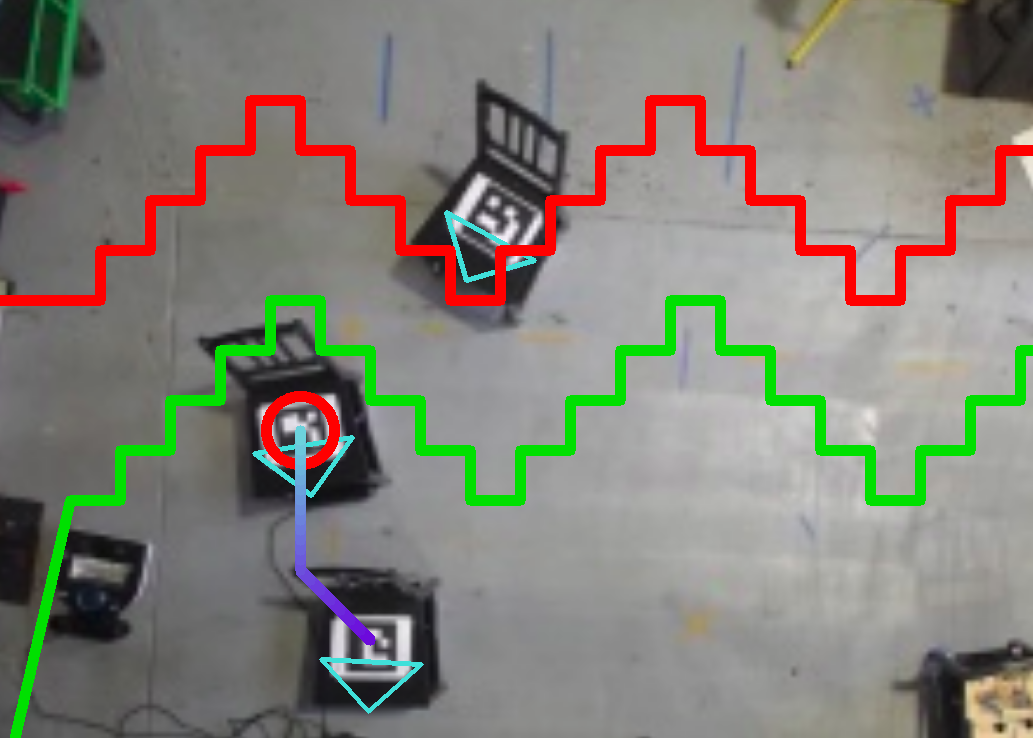
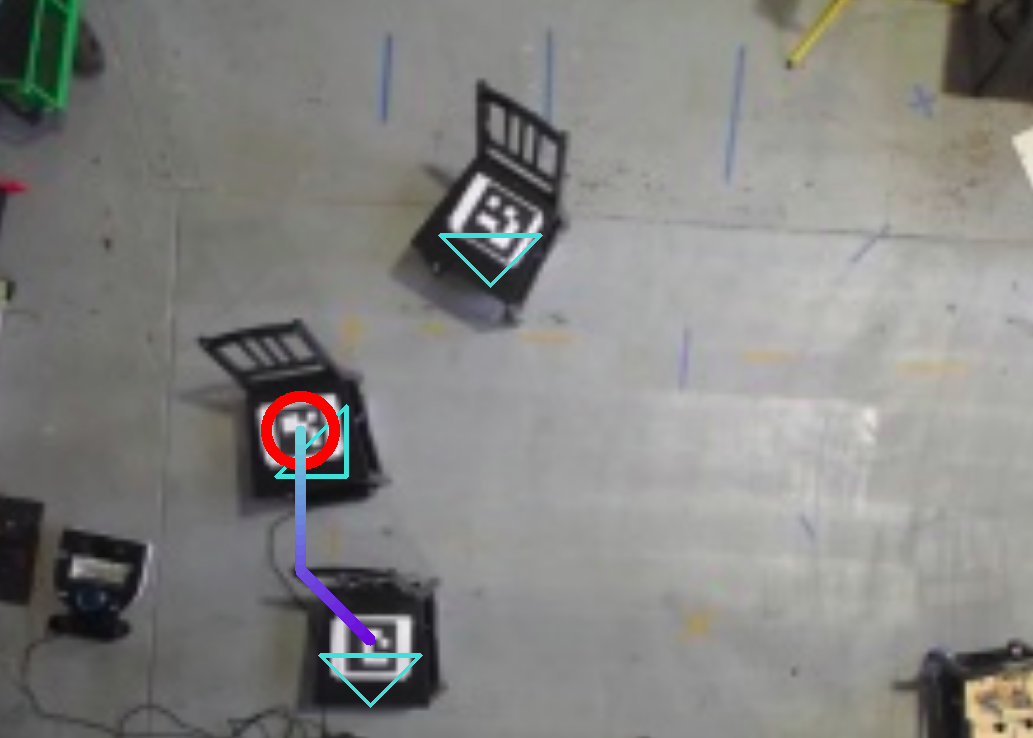
Added Avi's ScaledBots coordinates

diff --git a/path_planner.py b/path_planner.py
@@ -1,0 +1,227 @@
+import cv2
+import numpy as np
+import math 
+
+def _find_chairbots(image):
+    """ returns the chairbot location and orientation in an image """
+    # detectMarkers returns: (corners, ids, rejectedImgPoints)
+    dictionary = cv2.aruco.getPredefinedDictionary( cv2.aruco.DICT_4X4_50 )
+    corners, ids, _ = cv2.aruco.detectMarkers(image, dictionary)
+    found_chairbots = []
+    # Checks all fiducials in dictionary
+    if len(corners) > 0:
+        # fids corners, findex fiducial index
+        for (fids, index) in zip(corners, ids):
+            for corner in fids: # pt => point number
+                try:
+                    fid = int(index[0]) # defined fiducial id number
+                    # exclude fiducial ids outside of expected range
+                    if (fid >= 0 and fid <= 5):  # chairbot max number is 5
+                        # ll contains (x, y) coordinate of the middle of fiducial
+                        midcords = (corner[0] + corner[1] +corner[2] +corner[3]) \
+                            /4 # average sum of 4 corners
+                        # calculate angle from origin to fiducial center
+                        # average of the top two fiducial corners
+                        topcords = (corner[0] + corner[3]) / 2
+                        # average of the bottome two fiducial corners
+                        botcords = (corner[1] + corner[2]) / 2
+                        # Difference between top and bottom
+                        ydeltacords = topcords - botcords
+                        # Tangent of the y and the x
+                        theta = math.atan2(ydeltacords[1], ydeltacords[0])
+                        # Changes theta from radians to positive degrees (0 to 360 rotating counter-clockwise)
+                        degree = theta * (180 / math.pi) + 180
+                        found_chairbots.append([midcords, degree ])
+                except IndexError:
+                    print('IndexError thrown and passed while looping through aruco markers')
+                    pass
+    return found_chairbots
+
+def process_robots(found_bots):
+    all_bots = []
+    for bot in found_bots:
+        x = bot[0][0]
+        y = bot[0][1]
+        angle = bot[1]
+        # round real world angle to 0, 45, 90, ... 360
+        roundedangle = int(angle/45)
+        correctangle = 45*roundedangle
+        currentbot = (x,y,correctangle)
+        all_bots.append(currentbot)
+    return all_bots
+
+def scale_grid(all_bots, image):
+    height, width, _ = image.shape
+    # Round the height and width values of the image to nearest tenth
+    heightR = int(math.ceil(height / 10.0)) * 10
+    widthR = int(math.ceil(width / 10.0)) * 10
+    # Scale the height and width values down by a factor of 10 for path planning grid
+    heightS = int(heightR/10)
+    widthS = int(widthR/10)
+    smallgrid = np.zeros((heightS, widthS))
+    # Scale robot locations by same factor and put them into new list
+    scaledbots = []
+    for bot in all_bots:
+        x = int(bot[0]/10)
+        y = int(bot[1]/10)
+        angle = bot[2]
+        newbot = (x,y,angle)
+        scaledbots.append(newbot)
+    # Pixel size of robot locations on scalegrid (with buffer included)
+    robotsize = 5
+    for i in range(robotsize):
+        for j in range(robotsize):
+            for bot in scaledbots:
+                smallgrid[i+bot[1],j+bot[0]] = 255
+    cv2.imshow(' ', smallgrid)
+    
+    return(smallgrid, scaledbots)
+
+# This code looks at angle as well
+# The goal of this is to rectify the model used for path planning with how the robot actually moves
+# Now position will consist of three dimensions: [x,y,angle]
+# Assume an 8-connected grid
+class Node():
+    """A node class for A* Pathfinding"""
+    def __init__(self, parent=None, position=None):
+        self.parent = parent
+        self.position = position
+        self.g = 0
+        self.h = 0
+        self.f = 0
+    def __eq__(self, other):
+        return self.position == other.position
+    def __hash__(self):               #<-- added a hash method
+        return hash(self.position)
+def get_adjacent_squares(position):
+    """ based on the nonholonomic robot motion return adjacent squares based on position """
+    x,y,theta = position
+    neighbors = []
+    # case 1: turn in place
+    for angle in range(0,361, 45):  # loop through all possible angles in 8-grid
+        neighbors.append((x, y, angle))
+    # case 2: move forward
+    # 0 is left 90 is up 180 is right and 270 is down 
+    # Assuming positive is 1
+    forward_delta = {
+        0: [-1,0],
+        45: [-1,1],
+        90: [0,1],
+        135: [1,1],
+        180: [1,0],
+        225: [1,-1],
+        270: [0,-1],
+        315: [-1,-1],
+        360: [-1,0]
+    }
+    dx, dy = forward_delta[theta]
+    neighbors.append((x+dx, y+dy, theta))
+    return neighbors
+
+
+def astar(maze, start, end):
+    """Returns a list of tuples as a path from the given start to the given end in the given maze"""
+    # Create start and end node
+    start_node = Node(None, start)
+    start_node.g = start_node.h = start_node.f = 0
+    end_node = Node(None, end)
+    end_node.g = end_node.h = end_node.f = 0
+    # Initialize both open and closed list
+    open_list = []
+    closed_list = set()                # <-- closed_list must be a set
+    # Add the start node
+    open_list.append(start_node)
+    # Loop until you find the end
+    while len(open_list) > 0:
+        # Get the current node
+        current_node = open_list[0]
+        current_index = 0
+        for index, item in enumerate(open_list):
+            if item.f < current_node.f:
+                current_node = item
+                current_index = index
+        # Pop current off open list, add to closed list
+        open_list.pop(current_index)
+        closed_list.add(current_node)     # <-- change append to add
+        # Found the goal
+        if current_node == end_node:
+            path = []
+            current = current_node
+            while current is not None:
+                #Only append to path if angle changes in next node
+                #Set next node as white pixel to visualize
+                path.append(current.position)
+                current = current.parent
+            return path[::-1] # Return reversed path # TODO return the direction of the first node
+        # Generate children
+        children = []
+        #return get_adjacent_squares(current_node.position)
+        for node_position in get_adjacent_squares(current_node.position): # Adjacent squares -- 
+            # Make sure within range
+            if node_position[0] > (len(maze) - 1) or node_position[0] < 0 or node_position[1] > (len(maze[len(maze)-1]) -1) or node_position[1] < 0:
+                continue
+            # Make sure walkable terrain
+            if maze[node_position[0]][node_position[1]] != 0:
+                continue
+            # Create new node
+            new_node = Node(current_node, node_position)
+            # Append
+            children.append(new_node)
+        # Loop through children
+        for child in children:
+            # Child is on the closed list
+            if child in closed_list:              # <-- remove inner loop so continue takes you to the end of the outer loop
+                continue
+            # Create the f, g, and h values
+            child.g = current_node.g + 1
+            child.h = ((child.position[0] - end_node.position[0]) ** 2) + ((child.position[1] - end_node.position[1]) ** 2)
+            child.f = child.g + child.h
+            # Child is already in the open list
+            for open_node in open_list:
+                if child == open_node and child.g > open_node.g:
+                    continue
+            # Add the child to the open list
+            open_list.append(child)
+def rescale_paths(plannedpaths):
+    rescaledpath = []
+    for path in plannedpaths:
+        x = path[0]
+        y = path[1]
+        angle = path[2]
+        x = x*10
+        y = y*10
+        botpath = (x,y,angle)
+        rescaledpath.append(botpath)
+    return rescaledpath
+
+def main():
+    image = cv2.imread('images/chairbot_noAR_1.png')
+    all_robots = process_robots(_find_chairbots(image))
+    scaledgrid, scaledbots = scale_grid(all_robots, image)
+
+    plannedpaths = []
+    for bot in scaledbots:
+        x = bot[0]
+        y = bot[1]
+        angle = bot[2]
+        start = (x,y,angle)
+        end = (0,0,0)
+        botpath = astar(scaledgrid, start, end)
+        plannedpaths.append(botpath)
+    return(plannedpaths)
+
+def scaled_bots():
+    image = cv2.imread('images/chairbot_noAR_1.png')
+    all_robots = process_robots(_find_chairbots(image))
+    scaledgrid, scaledbots = scale_grid(all_robots, image)
+    rescaledbots = []
+    for bot in scaledbots:
+        x,y,angle = bot
+        x = x*10
+        y = y*10
+        newbot = x,y,angle
+        rescaledbots.append(newbot)
+    print(rescaledbots)
+    return(rescaledbots)
+
+main()

diff --git a/draw_arrow.py b/draw_arrow.py
@@ -1,6 +1,7 @@
 import cv2
 import numpy as np
 import math
+import path_planner
 
 #color = Blue, Green, Red
 
@@ -79,6 +80,7 @@ def drawArrow(img, coords, orientation, color=(218,224,64), thickness = 3, delta
   x, y = coords
   x = int(x)
   y = int(y)
+
   # points for an arrow centered at coords pointing right (zero degree angle)
   left_x = x+offset
   left_y = y-delta
@@ -219,13 +221,15 @@ def _test_on_chairbots():
   chairs = _find_chairbots(image)
   print('chairs found: ',chairs)
 
-  for chair in chairs:
-    chair_x, chair_y = chair[0]
-    chair_angle = chair[1]
+  num_chairs = len(chairs)
+
+  for chair in range(num_chairs):
+    coord_orientation = path_planner.scaled_bots()
+    chair_x, chair_y, chair_angle = coord_orientation[chair]
     arrow_image = drawArrow(image, (chair_x, chair_y), chair_angle)
 
-  path_img = draw_path(image, 50, 300, 0 , 300, (0,0,255))
-  path_img_two = draw_path(image, 70, 500, 0, 800, (0,224,0))
+ # path_img = draw_path(image, 50, 300, 0 , 300, (0,0,255))
+ # path_img_two = draw_path(image, 70, 500, 0, 800, (0,224,0))
 
   #real path example
   paths = [[(300, 430)], [(370, 640), (360, 630), (350, 620), (340, 610), (330, 600), (320, 590), (310, 580), (300, 570), (300, 560), (300, 550), (300, 540), (300, 530), (300, 520), (300, 510), (300, 500), (300, 490), (300, 480), (300, 470), (300, 460), (300, 450), (300, 440), (300, 430)]]
